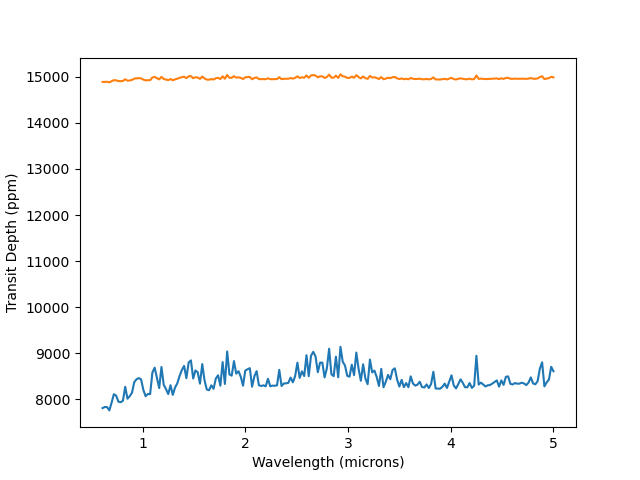
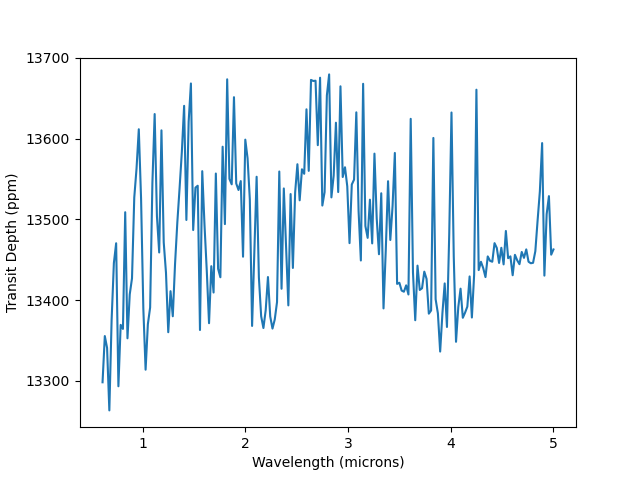
Test with 100% water atmosphere

diff --git a/Group 1 Spectrum Code/SpectrumGenerator.py b/Group 1 Spectrum Code/SpectrumGenerator.py
@@ -52,7 +52,7 @@ while rowCount < len(planetaryParameters):
 		r[i] = r[i+1] - ( sc.k * 0.5 * (T[i+1]+T[i]) / (mu * g[i]) ) * np.log(P[i]/P[i+1])
 	# First, set up a dictionary which will contain all the log mixing ratios, and input the abundances of all molecules except H2 and He
 	logX = dict()
-	logX['h2o'] = -3.0
+	logX['h2o'] = 0
 	#logX['ch4'] = -3.0
 	#logX['co'] = -3.0
 	#logX['co2'] = -3.0
@@ -167,3 +167,4 @@ while rowCount < len(planetaryParameters):
 	plt.ylabel('Transit Depth (ppm)')
 	#plt.xlim([1.1,1.7])
 	plt.savefig(f'TransmissionSpectrum{rowCount}.png')
+	plt.clf()
